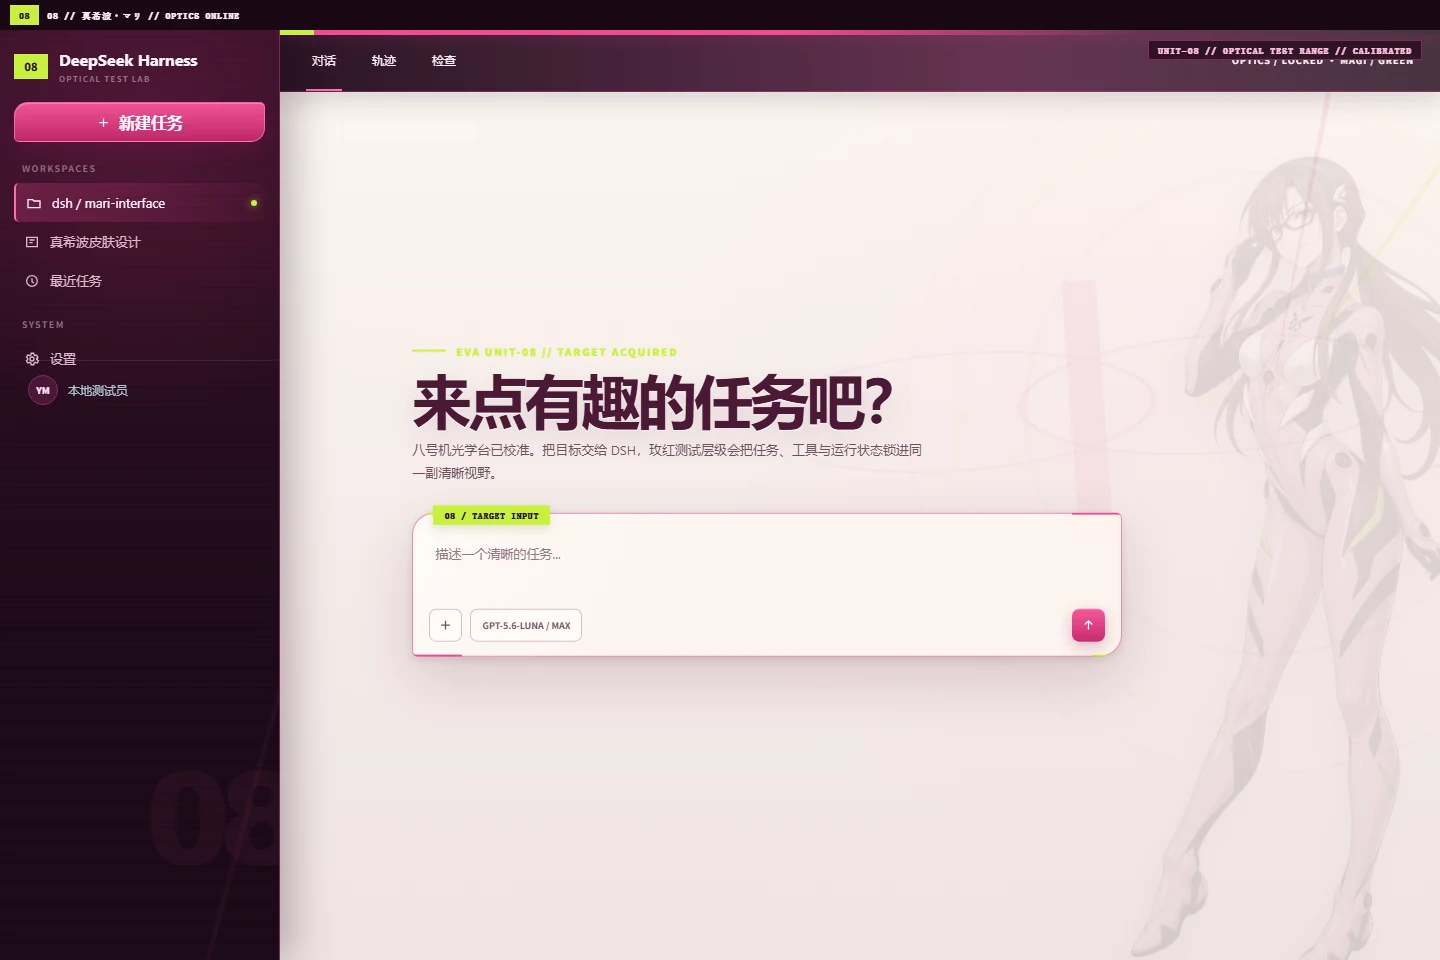
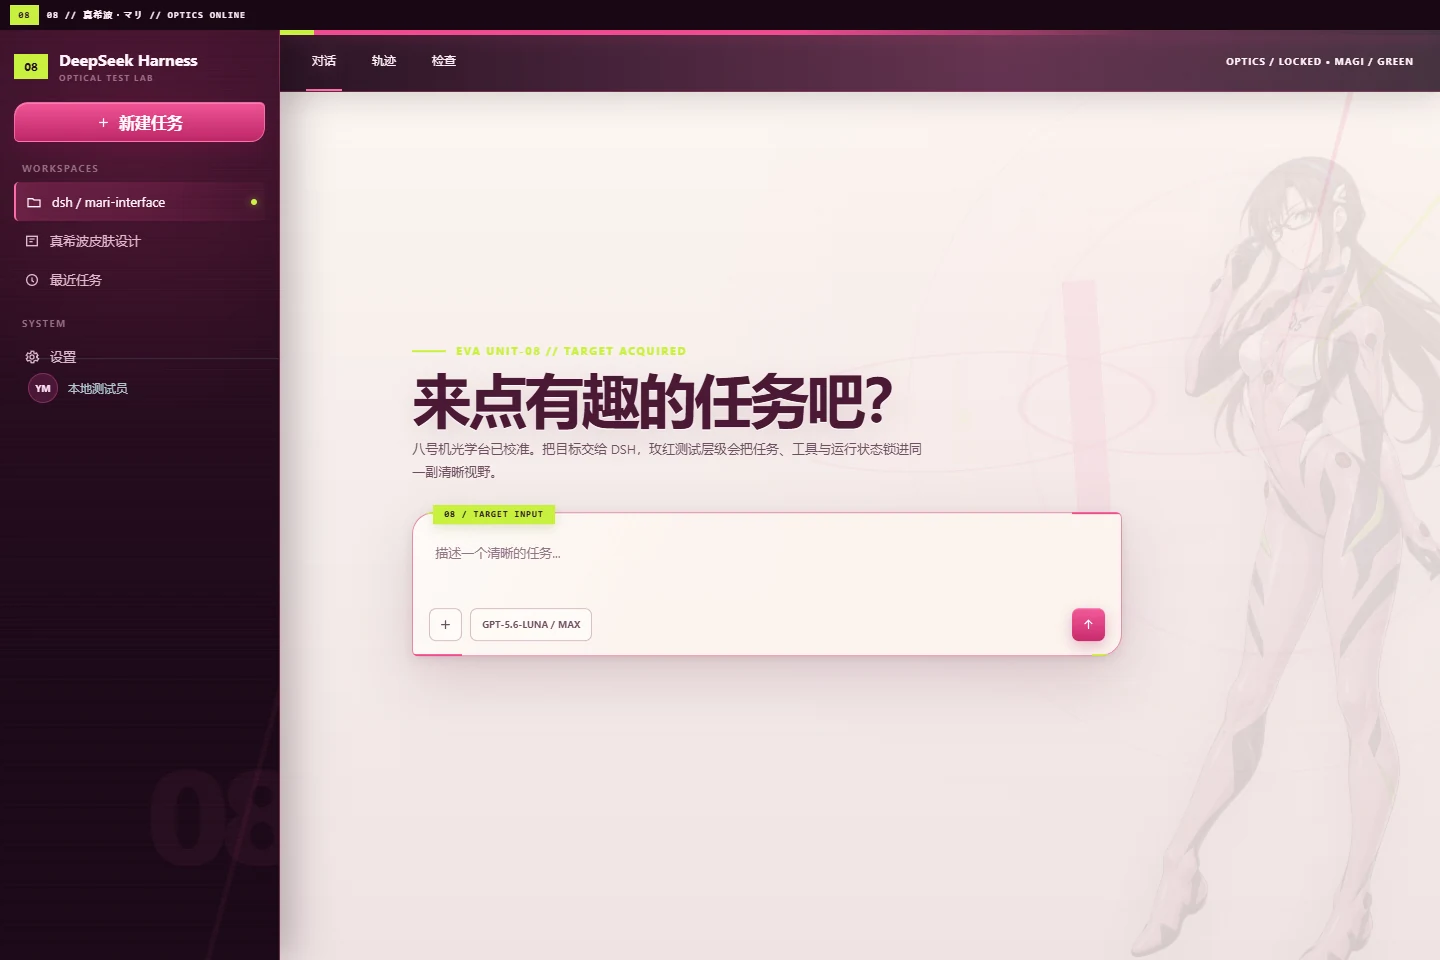
Remove decorative telemetry labels

diff --git a/lib/client.js b/lib/client.js
@@ -191,24 +191,6 @@ body[data-dsh-mari-interface] [data-mari-optics]::after {
 body[data-dsh-mari-interface] [data-mari-optics]::before { left: 27%; }
 body[data-dsh-mari-interface] [data-mari-optics]::after { right: 27%; }
 
-body[data-dsh-mari-interface] [data-mari-telemetry] {
-  position: absolute;
-  right: clamp(14px, 3vw, 52px);
-  bottom: 24px;
-  padding: 7px 12px 6px;
-  border: 1px solid rgba(240, 75, 145, 0.42);
-  color: rgba(123, 35, 77, 0.8);
-  background: rgba(255, 246, 241, 0.66);
-  font: 750 9px/1 ui-monospace, SFMono-Regular, Menlo, monospace;
-  letter-spacing: 0.13em;
-  backdrop-filter: blur(8px);
-}
-
-body[data-dsh-mari-interface][data-ds-dark-theme] [data-mari-telemetry] {
-  color: rgba(255, 180, 211, 0.86);
-  background: rgba(29, 8, 24, 0.7);
-}
-
 body[data-dsh-mari-interface]:has(:is([data-phase='active'][data-chat-flow], [data-phase='active'] [data-chat-flow])) [data-skin-artwork] {
   opacity: 0.115;
   filter: saturate(0.5) drop-shadow(-10px 12px 22px rgba(39, 8, 28, 0.22));
@@ -217,10 +199,6 @@ body[data-dsh-mari-interface]:has(:is([data-phase='active'][data-chat-flow], [da
 
 body[data-dsh-mari-interface]:has(:is([data-phase='active'][data-chat-flow], [data-phase='active'] [data-chat-flow])) :is([data-skin-orbit], [data-mari-optics]) {
   opacity: 0.13;
-}
-
-body[data-dsh-mari-interface]:has(:is([data-phase='active'][data-chat-flow], [data-phase='active'] [data-chat-flow])) [data-mari-telemetry] {
-  opacity: 0;
 }
 
 body[data-dsh-mari-interface] [data-skin-chrome='mari-accent-rail'] {
@@ -234,20 +212,6 @@ body[data-dsh-mari-interface] [data-skin-chrome='mari-accent-rail'] {
   background: linear-gradient(90deg, var(--mari-green) 0 34px, var(--mari-pink) 34px 44%, rgba(240, 75, 145, 0.08) 74%, transparent);
   box-shadow: 0 2px 15px rgba(240, 75, 145, 0.3);
   transition: left 180ms ease;
-}
-
-body[data-dsh-mari-interface] [data-skin-chrome='mari-accent-rail']::after {
-  content: 'UNIT-08 // OPTICAL TEST RANGE // CALIBRATED';
-  position: absolute;
-  top: 10px;
-  right: 18px;
-  padding: 5px 9px 4px;
-  border: 1px solid rgba(240, 75, 145, 0.44);
-  color: #ffc0dc;
-  background: rgba(34, 8, 28, 0.76);
-  font: 700 9px/1 ui-monospace, SFMono-Regular, Menlo, monospace;
-  letter-spacing: 0.14em;
-  backdrop-filter: blur(10px);
 }
 
 body[data-dsh-mari-interface] [data-skin-chrome='mari-titlebar-brand'] {
@@ -589,8 +553,6 @@ body[data-dsh-mari-interface] ::-webkit-scrollbar-thumb {
     transform: translateX(24%);
   }
   body[data-dsh-mari-interface] :is([data-skin-orbit], [data-mari-optics]) { opacity: 0.1; }
-  body[data-dsh-mari-interface] [data-mari-telemetry],
-  body[data-dsh-mari-interface] [data-skin-chrome='mari-accent-rail']::after { display: none; }
   body[data-dsh-mari-interface] [data-phase='hero'] { --dsh-chat-content-width: min(90vw, 680px); }
 }
 
@@ -638,17 +600,14 @@ function createArtworkStage() {
   const stage = createOwned('div', 'mari-artwork-stage')
   const orbit = document.createElement('span')
   const optics = document.createElement('span')
-  const telemetry = document.createElement('span')
   const artwork = document.createElement('img')
   stage.setAttribute('aria-hidden', 'true')
   orbit.dataset.skinOrbit = ''
   optics.dataset.mariOptics = ''
-  telemetry.dataset.mariTelemetry = ''
-  telemetry.textContent = 'OPTICAL TEST // UNIT-08 // MAGI LINK GREEN'
   artwork.dataset.skinArtwork = ''
   artwork.alt = ''
   artwork.src = SKIN_ART
-  stage.append(orbit, optics, telemetry, artwork)
+  stage.append(orbit, optics, artwork)
   return stage
 }
 

diff --git a/shared/theme-css.js b/shared/theme-css.js
@@ -172,24 +172,6 @@ body[data-dsh-mari-interface] [data-mari-optics]::after {
 body[data-dsh-mari-interface] [data-mari-optics]::before { left: 27%; }
 body[data-dsh-mari-interface] [data-mari-optics]::after { right: 27%; }
 
-body[data-dsh-mari-interface] [data-mari-telemetry] {
-  position: absolute;
-  right: clamp(14px, 3vw, 52px);
-  bottom: 24px;
-  padding: 7px 12px 6px;
-  border: 1px solid rgba(240, 75, 145, 0.42);
-  color: rgba(123, 35, 77, 0.8);
-  background: rgba(255, 246, 241, 0.66);
-  font: 750 9px/1 ui-monospace, SFMono-Regular, Menlo, monospace;
-  letter-spacing: 0.13em;
-  backdrop-filter: blur(8px);
-}
-
-body[data-dsh-mari-interface][data-ds-dark-theme] [data-mari-telemetry] {
-  color: rgba(255, 180, 211, 0.86);
-  background: rgba(29, 8, 24, 0.7);
-}
-
 body[data-dsh-mari-interface]:has(:is([data-phase='active'][data-chat-flow], [data-phase='active'] [data-chat-flow])) [data-skin-artwork] {
   opacity: 0.115;
   filter: saturate(0.5) drop-shadow(-10px 12px 22px rgba(39, 8, 28, 0.22));
@@ -198,10 +180,6 @@ body[data-dsh-mari-interface]:has(:is([data-phase='active'][data-chat-flow], [da
 
 body[data-dsh-mari-interface]:has(:is([data-phase='active'][data-chat-flow], [data-phase='active'] [data-chat-flow])) :is([data-skin-orbit], [data-mari-optics]) {
   opacity: 0.13;
-}
-
-body[data-dsh-mari-interface]:has(:is([data-phase='active'][data-chat-flow], [data-phase='active'] [data-chat-flow])) [data-mari-telemetry] {
-  opacity: 0;
 }
 
 body[data-dsh-mari-interface] [data-skin-chrome='mari-accent-rail'] {
@@ -215,20 +193,6 @@ body[data-dsh-mari-interface] [data-skin-chrome='mari-accent-rail'] {
   background: linear-gradient(90deg, var(--mari-green) 0 34px, var(--mari-pink) 34px 44%, rgba(240, 75, 145, 0.08) 74%, transparent);
   box-shadow: 0 2px 15px rgba(240, 75, 145, 0.3);
   transition: left 180ms ease;
-}
-
-body[data-dsh-mari-interface] [data-skin-chrome='mari-accent-rail']::after {
-  content: 'UNIT-08 // OPTICAL TEST RANGE // CALIBRATED';
-  position: absolute;
-  top: 10px;
-  right: 18px;
-  padding: 5px 9px 4px;
-  border: 1px solid rgba(240, 75, 145, 0.44);
-  color: #ffc0dc;
-  background: rgba(34, 8, 28, 0.76);
-  font: 700 9px/1 ui-monospace, SFMono-Regular, Menlo, monospace;
-  letter-spacing: 0.14em;
-  backdrop-filter: blur(10px);
 }
 
 body[data-dsh-mari-interface] [data-skin-chrome='mari-titlebar-brand'] {
@@ -570,8 +534,6 @@ body[data-dsh-mari-interface] ::-webkit-scrollbar-thumb {
     transform: translateX(24%);
   }
   body[data-dsh-mari-interface] :is([data-skin-orbit], [data-mari-optics]) { opacity: 0.1; }
-  body[data-dsh-mari-interface] [data-mari-telemetry],
-  body[data-dsh-mari-interface] [data-skin-chrome='mari-accent-rail']::after { display: none; }
   body[data-dsh-mari-interface] [data-phase='hero'] { --dsh-chat-content-width: min(90vw, 680px); }
 }
 

diff --git a/shared/runtime.js b/shared/runtime.js
@@ -23,17 +23,14 @@ function createArtworkStage() {
   const stage = createOwned('div', 'mari-artwork-stage')
   const orbit = document.createElement('span')
   const optics = document.createElement('span')
-  const telemetry = document.createElement('span')
   const artwork = document.createElement('img')
   stage.setAttribute('aria-hidden', 'true')
   orbit.dataset.skinOrbit = ''
   optics.dataset.mariOptics = ''
-  telemetry.dataset.mariTelemetry = ''
-  telemetry.textContent = 'OPTICAL TEST // UNIT-08 // MAGI LINK GREEN'
   artwork.dataset.skinArtwork = ''
   artwork.alt = ''
   artwork.src = SKIN_ART
-  stage.append(orbit, optics, telemetry, artwork)
+  stage.append(orbit, optics, artwork)
   return stage
 }
 

diff --git a/tests/apply.spec.ts b/tests/apply.spec.ts
@@ -55,7 +55,7 @@ describe('真希波 · UNIT-08 interface skin', () => {
     expect(document.body.hasAttribute('data-dsh-mari-interface')).toBe(true)
     expect(document.querySelector('[data-skin-artwork]')).not.toBeNull()
     expect(document.querySelector('[data-mari-optics]')).not.toBeNull()
-    expect(document.querySelector('[data-mari-telemetry]')?.textContent).toContain('UNIT-08')
+    expect(document.querySelector('[data-mari-telemetry]')).toBeNull()
     expect(document.querySelector("[data-skin-chrome='mari-accent-rail']")).not.toBeNull()
     expect(document.head.querySelector("[data-skin-chrome='mari-styles']")).not.toBeNull()
 

diff --git a/README.en.md b/README.en.md
@@ -6,7 +6,7 @@ An unofficial Mari Makinami / EVA Unit-08 interface skin for the DSH Web UI, bui
 
 ## Highlights
 
-- Full-height Mari artwork, Unit-08 optical reticles, and calibration telemetry on the welcome screen.
+- Full-height Mari artwork and Unit-08 optical reticles on the welcome screen.
 - Artwork automatically fades, desaturates, and shifts aside during active conversations.
 - Deliberate light and dark treatments for settings, menus, terminal surfaces, messages, and disabled states.
 - Responsive and reduced-motion behavior.

diff --git a/README.md b/README.md
@@ -8,7 +8,7 @@
 
 ## 特性
 
-- 欢迎页显示完整真希波立绘、UNIT-08 光学准星和校准遥测。
+- 欢迎页显示完整真希波立绘和 UNIT-08 光学准星。
 - 进入对话后立绘自动向右退让并降低透明度与饱和度，避免影响阅读。
 - 独立设计亮色、暗色、设置弹窗、菜单、终端、消息和禁用状态。
 - 适配宽屏、窄屏和系统“减少动态效果”设置。
